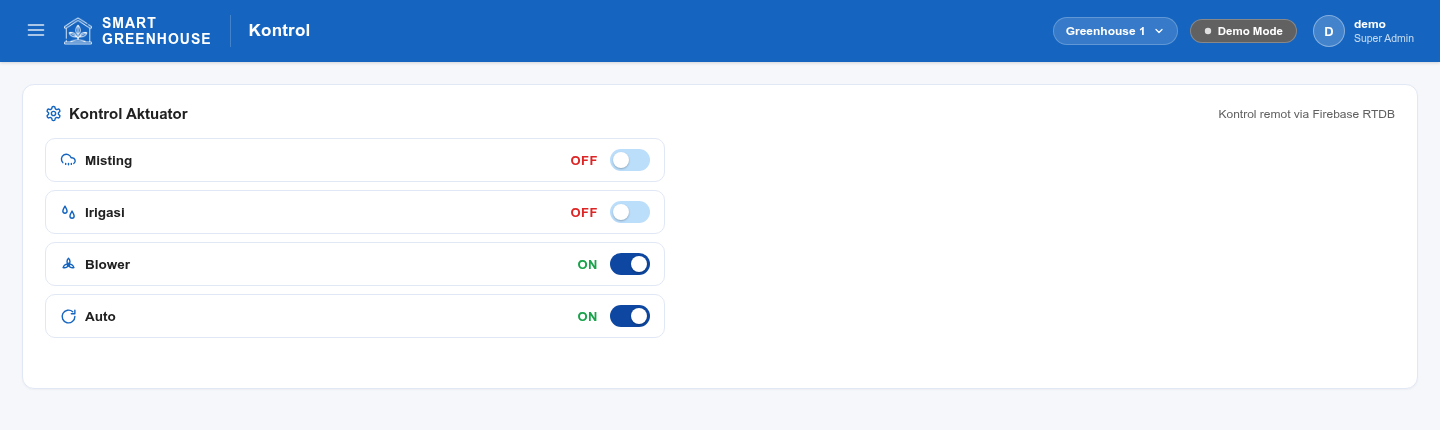
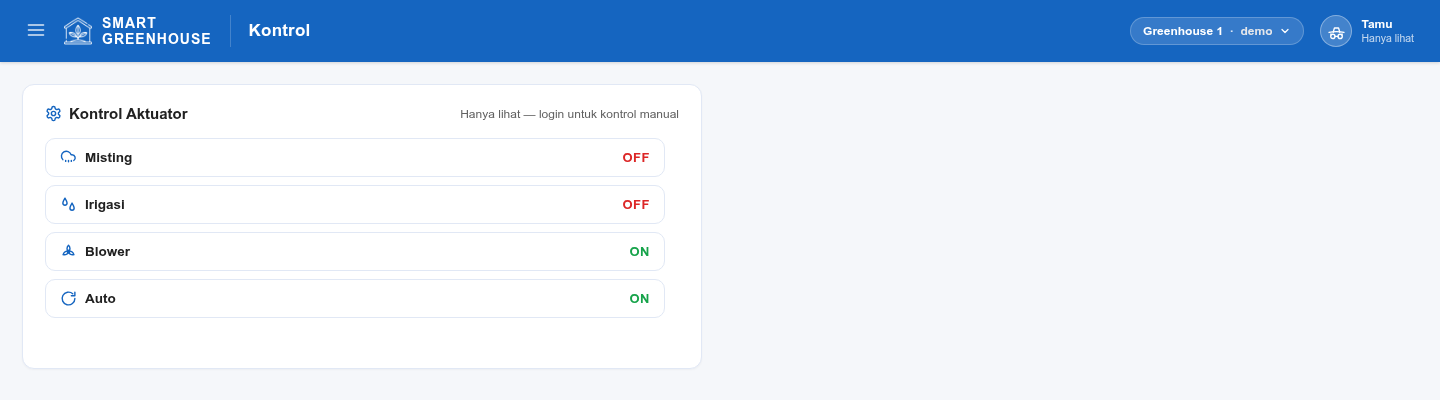
README & docs: perbarui deskripsi mode tamu, tombol status unit, dan refresh 3 screenshot

diff --git a/web/app.js b/web/app.js
@@ -479,9 +479,8 @@ function loadDemoData() {
     renderLogs(logs);
     updateActuatorStates();
     updateFreshness(20);
-    document.getElementById('userEmail').textContent = 'demo@smartgreenhouse.local';
-    document.getElementById('userAvatar').textContent = 'D';
-    document.getElementById('userName').textContent = 'demo';
+    // Identitas (avatar/nama/peran) sudah diatur oleh setIdentity() di atas —
+    // jangan ditimpa di sini, supaya demo konsisten dengan keadaan nyata.
     const btn = document.getElementById('zoneBtn');
     btn.classList.remove('is-off', 'is-ok', 'is-stale');
     btn.classList.add('is-demo');

diff --git a/README.md b/README.md
@@ -12,31 +12,18 @@ Realtime Database.
 Layout admin: sidebar kiri (Beranda, Kontrol, Log Sensor) dan topbar biru solid.
 Tombol hamburger menyembunyikan/munculkan sidebar di desktop, dan menjadi
 drawer di layar kecil. Greenhouse yang dipantau/dikontrol dipilih lewat tombol
-di topbar yang memunculkan daftar unit. Seluruh tampilan mengikuti satu skema
-warna (Material Blue berpusat di `#1565C0`) yang didefinisikan di `style.css`;
-grafik membaca variabel warna yang sama.
+di topbar — tombol itu sekaligus menampilkan **status** unit tersebut
+(hijau = online, kuning = data basi, merah = offline). Seluruh tampilan
+mengikuti satu skema warna (Material Blue berpusat di `#1565C0`) yang
+didefinisikan di `style.css`; grafik membaca variabel warna yang sama.
 
 **Beranda** menampilkan enam metrik real-time (suhu, kelembapan, kandungan air
-tanah, VPD, ET0, dan TDS) plus grafik tren 20 titik terakhir.
+tanah, VPD, ET0, dan TDS) plus grafik tren 20 titik terakhir, diiringi nama
+greenhouse yang sedang dipantau dan tombol Refresh.
 
 **Kontrol** menampilkan satu baris per aktuator (Misting, Irigasi, Blower,
-Auto) dengan status ON/OFF dan sakelarnya, hanya untuk admin.
-
-## Akses
-
-Dashboard **terbuka untuk semua orang**: siapa pun bisa membuka halaman dan
-melihat data sensor tanpa login, dan tampil sebagai **Tamu**. Untuk
-kendali manual atau mengelola greenhouse, klik avatar **Tamu** → **Login**.
-
-| Peran | Akun | Boleh |
-|---|---|---|
-| Tamu | tanpa akun | baca semua metrik, grafik, dan log |
-| Admin | `mr.pman@mail.unnes.ac.id` | + kontrol aktuator & ganti nama greenhouse |
-| Perangkat | satu akun per ESP32 | push sensor, terima perintah |
-
-Cukup dua jenis akun: **admin** dan **ESP32**. Penulisan dijaga RTDB rules
-(allowlist UID); pembacaan dibuka publik. Detail & cara menempelkan rules ada di
-[`web/TUTORIAL.md`](web/TUTORIAL.md).
+Auto) lengkap dengan status ON/OFF. Kartu ini terlihat untuk semua orang, tapi
+**sakelarnya hanya muncul setelah login admin**.
 
 ![Kontrol](docs/kontrol.png)
 
@@ -47,6 +34,26 @@ sampai monitor lebar.
 Menambah unit greenhouse = tambah baris di `ZONES` (`web/config.js`) dengan
 `id` yang sama dengan `DEVICE_ID` firmware, plus tambahkan UID perangkat itu ke
 allowlist rules RTDB.
+
+## Akses
+
+Dashboard **terbuka untuk semua orang**: siapa pun bisa membuka halaman dan
+melihat data sensor tanpa login, dan tampil sebagai **Tamu**. Untuk kendali
+manual atau mengelola greenhouse, klik avatar **Tamu** → **Login**.
+
+| Peran | Akun | Boleh |
+|---|---|---|
+| Tamu | tanpa akun | baca metrik, grafik, log, dan status aktuator |
+| Admin | `mr.pman@mail.unnes.ac.id` | + sakelar kontrol aktuator & ganti nama greenhouse |
+| Perangkat | satu akun per ESP32 | push sensor, terima perintah |
+
+Cukup dua jenis akun: **admin** dan **ESP32**. Tulis (kontrol & label) dijaga
+RTDB rules lewat allowlist UID; pembacaan dibuka publik karena isinya hanya
+telemetri. Detail & cara menempelkan rules ada di
+[`web/TUTORIAL.md`](web/TUTORIAL.md).
+
+Sesi admin disimpan di browser (`persistence: local`), jadi admin tetap login
+otomatis sampai menekan **Keluar**. Tamu di perangkat lain tidak terpengaruh.
 
 ## Hardware
 
@@ -97,7 +104,7 @@ suhu, kelembapan, tanah, VPD, dan ETc. Aturan disimpan sebagai tabel di
 metode Blaney-Criddle dengan Kc cabai 0.75 di `irrigation.cpp`.
 
 **Siklus irigasi.** Berjalan tiga fase: FILL mengisi ember campuran, FERT
-menyalakan kedua pompa fertilized dalam pola denyut 2 detik dan jeda 1 detik
+menyalakan kedua pompa pemupuk dalam pola denyut 2 detik dan jeda 1 detik
 sampai TDS mencapai 1000 ppm, lalu DIST mengalirkan campuran ke tanaman. Fase
 FERT punya timeout keamanan 120 detik agar tidak berjalan terus.
 
